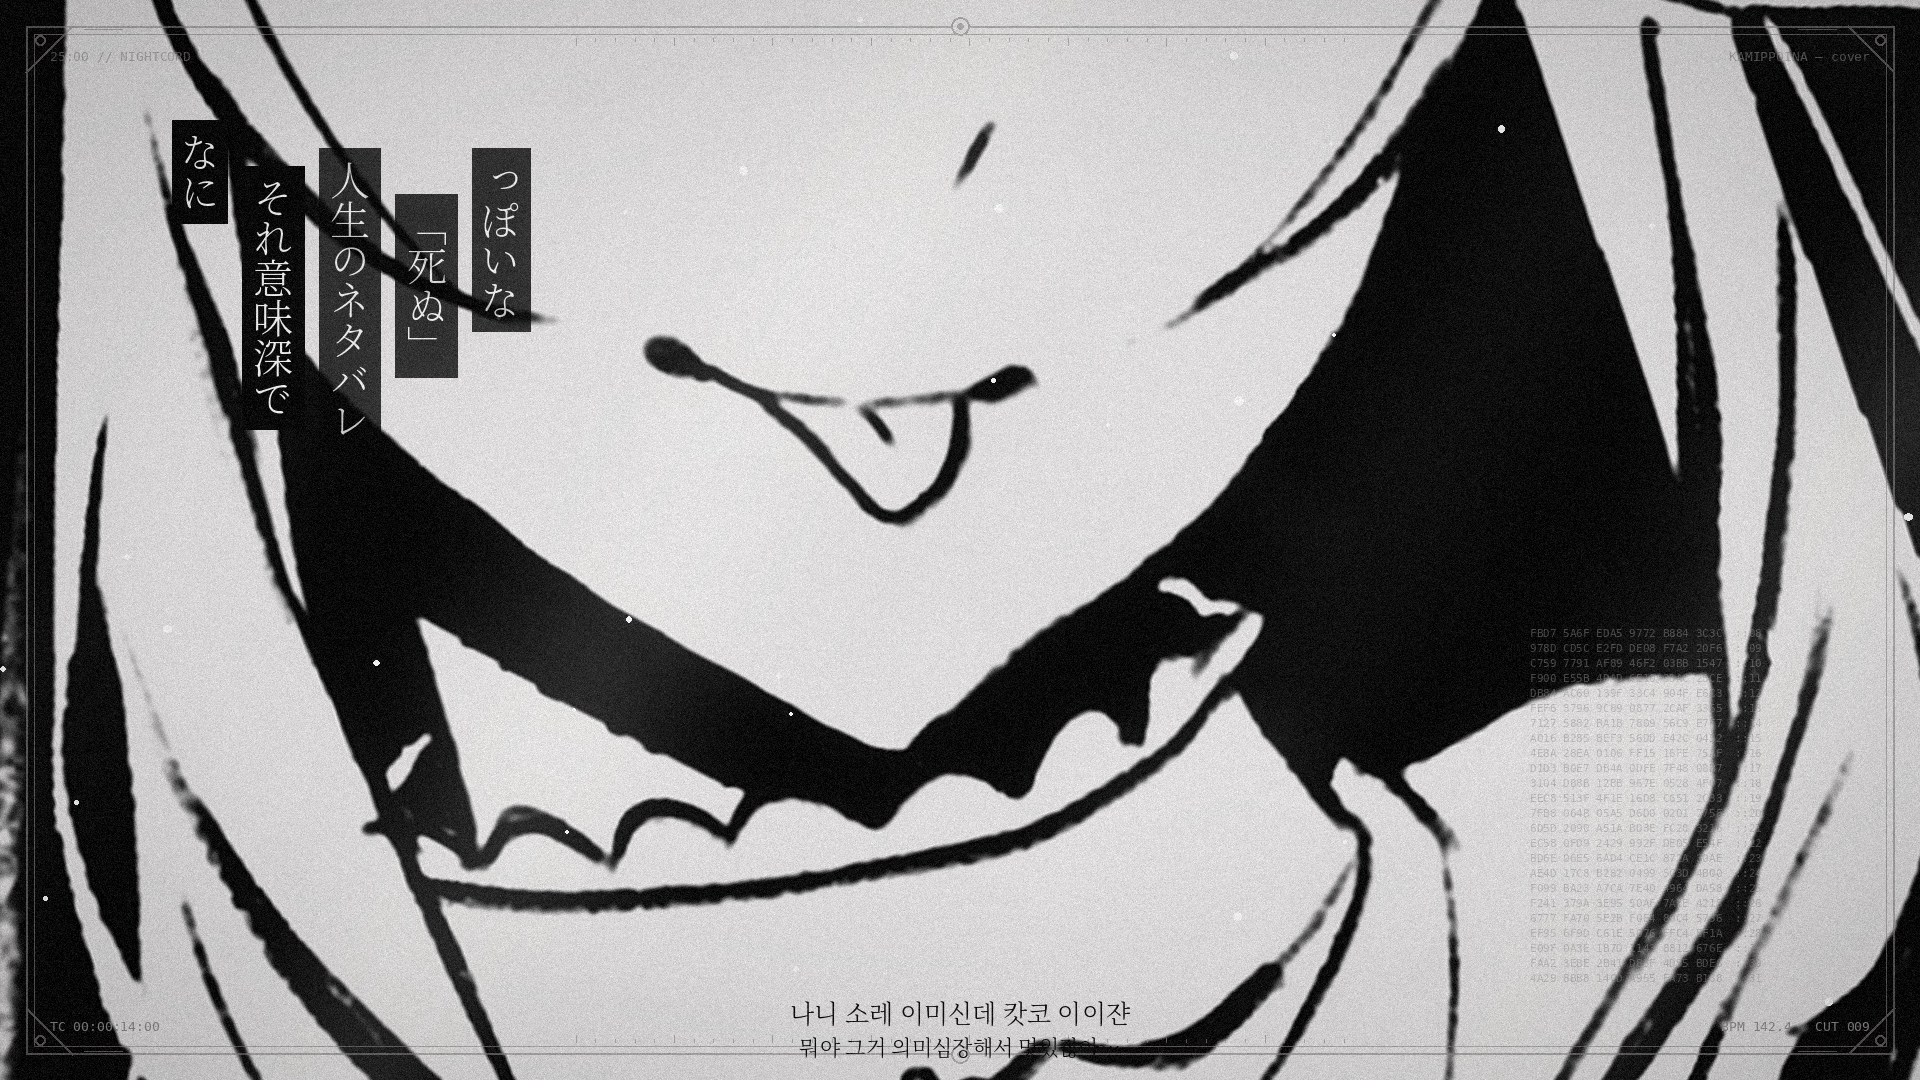
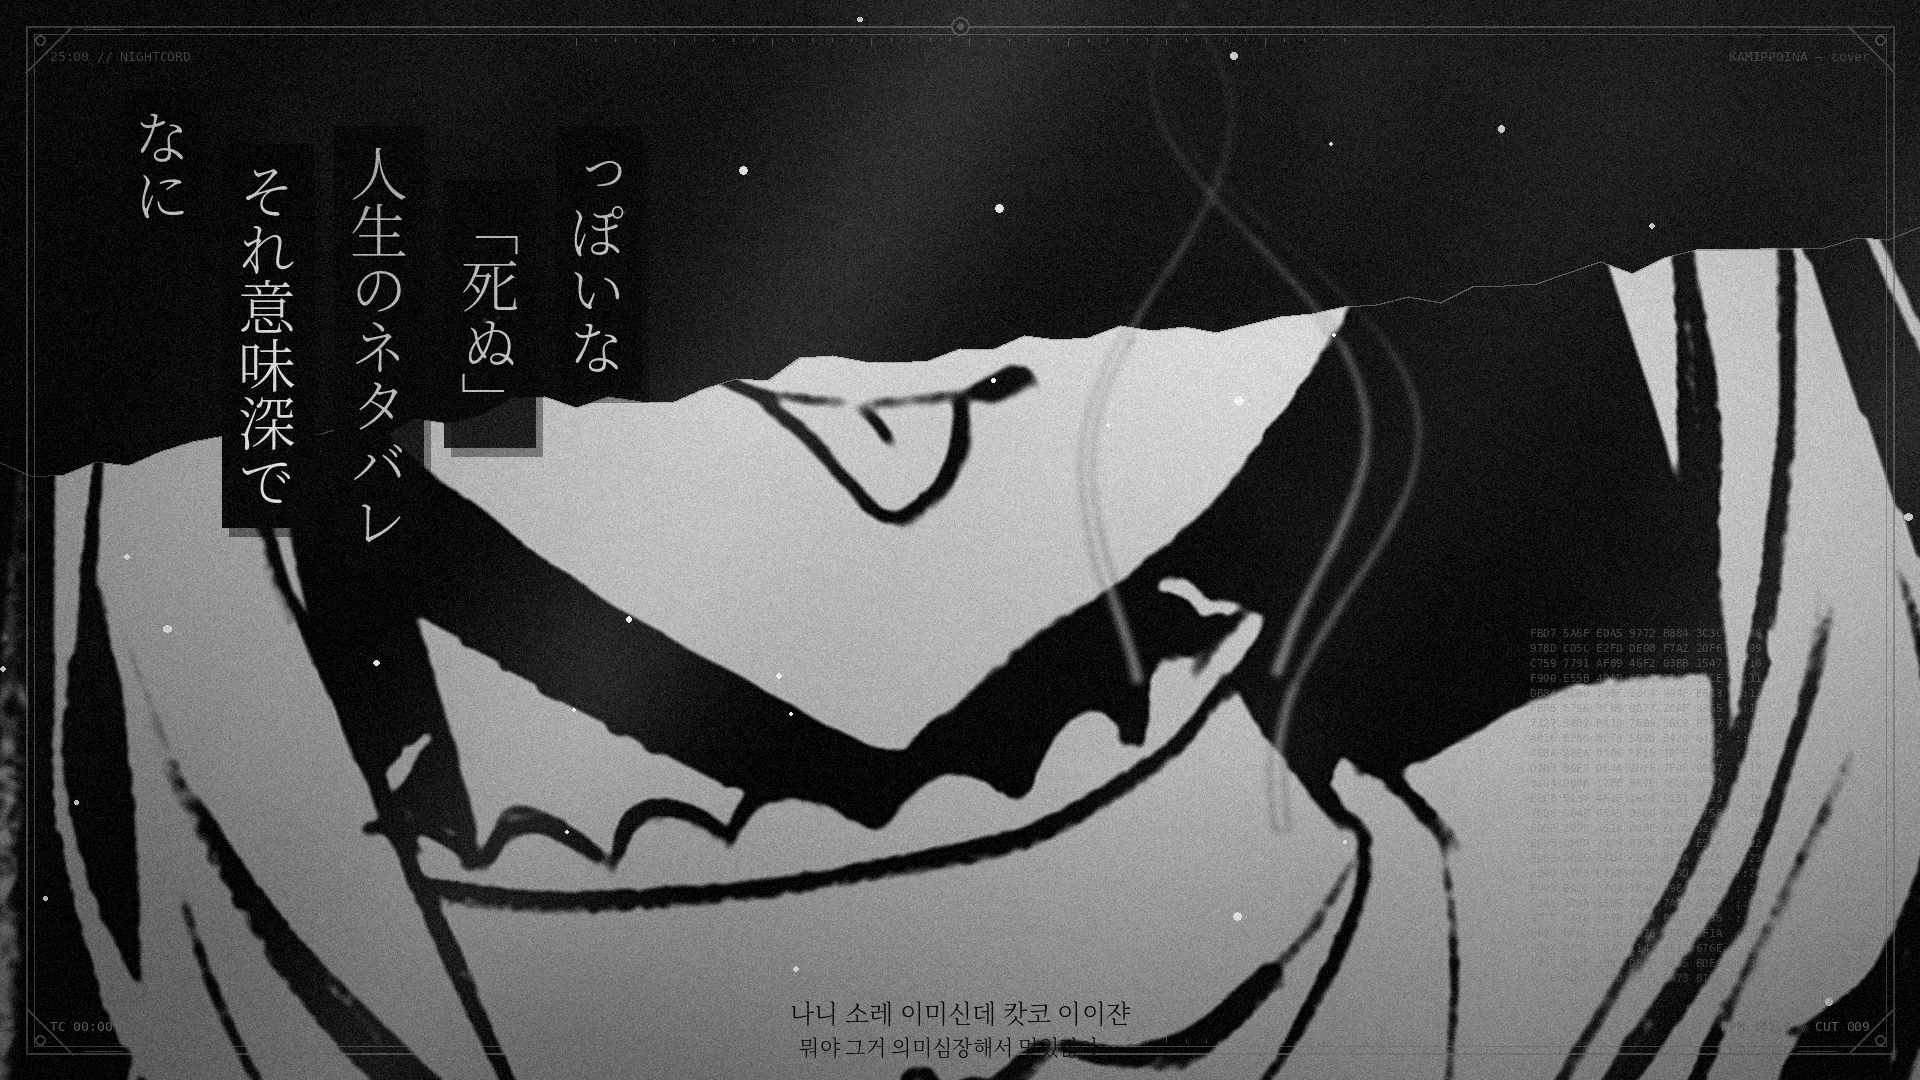
Step 2 rev: richer ref-B look for the stills
- torn black wedges, ghost after-image, directional shading, stronger vignette/grain
- bigger vertical lyric boxes with drop shadow; bigger red keyword with offset echo
- letterbox, slice bars, speed lines, smoke wisps on the matching scenes

Claude-Session: https://claude.ai/code/session_01QgDn7Ygr8MszVbrF3adkbG

diff --git a/tools/render.py b/tools/render.py
@@ -238,6 +238,20 @@ def vbox(text, size, fg=PAPER_L, bg=INK, pad=0.32, fontpath=F_L):
     return im
 
 
+_SH = {}
+
+
+def box_shadow(box):
+    if id(box) in _SH:
+        return _SH[id(box)]
+    _SH[id(box)] = _box_shadow(box); return _SH[id(box)]
+
+
+def _box_shadow(box):
+    a = box.getchannel("A").filter(ImageFilter.GaussianBlur(max(1, S(6))))
+    im = Image.new("RGBA", box.size, INK + (0,)); im.putalpha(a); return im
+
+
 @lru_cache(512)
 def htext(text, size, fill, fontpath=F_XL, stroke=0):
     f = font(fontpath, size)
@@ -293,7 +307,7 @@ def text_A(L, t, c, stack_size, side="right", mirror=False, max_lines=3):
         cols.append((k, ch[:n_vis]))
     size = S(stack_size)
     gap = int(size * 0.35)
-    x = Q.W - S(170) if side == "right" else S(170)
+    x = Q.W - S(120) if side == "right" else S(120)
     order = []
     for k, ch in cols:
         for j, piece in enumerate(ch):
@@ -306,18 +320,21 @@ def text_A(L, t, c, stack_size, side="right", mirror=False, max_lines=3):
     cols = kept
     # right-to-left columns (vertical writing): newest line at the outer edge
     xs = x
-    y0 = S(120)
+    y0 = S(90)
     for k, ch in cols:
         for j, piece in enumerate(ch):
             box = vbox(piece, size)
             age_alpha = [1.0, 0.82, 0.6][min(k, 2)]
-            yy = y0 + (j % 2) * S(46) + k * S(28)
+            yy = y0 + (j % 2) * S(54) + k * S(36)
             if side == "right":
                 xs -= box.size[0] + gap; px = xs + gap
             else:
                 px = xs; xs += box.size[0] + gap
+            sh = box_shadow(box)
             if mirror:  # mirror-symmetric twin on the other side
+                paste(L, sh, Q.W - px - box.size[0] + S(7), yy + S(9), age_alpha * 0.45)
                 paste(L, box, Q.W - px - box.size[0], yy, age_alpha * 0.9)
+            paste(L, sh, px + S(7), yy + S(9), age_alpha * 0.45)
             paste(L, box, px, yy, age_alpha)
 
 
@@ -481,7 +498,7 @@ def vignette():
     W, H = Q.W, Q.H
     y, x = np.mgrid[0:H, 0:W]
     d = np.sqrt(((x - W / 2) / (W / 2)) ** 2 + ((y - H / 2) / (H / 2)) ** 2)
-    v = 1 - 0.22 * np.clip(d - 0.55, 0, 1) ** 1.5
+    v = 1 - 0.42 * np.clip(d - 0.45, 0, 1) ** 1.3
     return Image.fromarray((v * 255).astype(np.uint8), "L")
 
 
@@ -718,25 +735,25 @@ def scene_text(L, img_layer_eyes, t, c, ci, bg):
             paste(L, im2, Q.W / 2 - im2.size[0] / 2, Q.H / 2 + S(30))
         return
     if sc in (2, 12):
-        text_A(L, t, c, 40 if sc == 2 else 46, side="right" if (ci % 2) else "left")
+        text_A(L, t, c, 58 if sc == 2 else 62, side="right" if (ci % 2) else "left")
     elif sc == 3:
         if li == 13:
             text_B(L, t, c, img_layer_eyes, tc, text="神っぽいな", size_h=0.5)
     elif sc == 4:
-        text_A(L, t, c, 30, side="right")
+        text_A(L, t, c, 44, side="right")
     elif sc == 5:
-        text_A(L, t, c, 30, side="right", mirror=True, max_lines=2)
+        text_A(L, t, c, 44, side="right", mirror=True, max_lines=2)
         text_B(L, t, c, img_layer_eyes, tc, size_h=0.36)
     elif sc in (6, 15):
         if li in (63,):
             text_B(L, t, c, img_layer_eyes, tc, text="神っぽいな", size_h=0.55, slide=0.25)
-        text_A(L, t, c, 52 if sc == 6 else 60, side="right", mirror=(sc == 15))
+        text_A(L, t, c, 70 if sc == 6 else 76, side="right", mirror=(sc == 15))
     elif sc == 7:
         if red:
             word = "憧れちゃう！" if li == 34 else "神っぽいな"
             text_C(L, t, c, word, img_layer_eyes, horizontal=(li == 34))
         else:
-            text_A(L, t, c, 66, side="right", max_lines=2)
+            text_A(L, t, c, 86, side="right", max_lines=2)
     elif sc == 9:
         if li == 42:
             text_B(L, t, c, [], PAPER_L, text="神っぽいな", size_h=0.5, slide=0.4)
@@ -746,9 +763,9 @@ def scene_text(L, img_layer_eyes, t, c, ci, bg):
         if red:
             text_C(L, t, c, "神っぽいな", img_layer_eyes, horizontal=False)
         else:
-            text_A(L, t, c, 48, side="left")
+            text_A(L, t, c, 64, side="left")
     elif sc == 13:
-        text_A(L, t, c, 30, side="right", max_lines=1)
+        text_A(L, t, c, 44, side="right", max_lines=1)
     elif sc == 14:
         if red:
             text_C(L, t, c, "憧" if li == 55 else "風", [], horizontal=True, center=True)
@@ -778,20 +795,126 @@ def band_text(L, t, c, bg):
 def text_C(L, t, c, word, eyes, horizontal=False, center=False):
     """Red keyword, half the screen, thin serif."""
     if horizontal:
-        size = int(Q.H * (0.62 if center else 0.30))
+        size = int(Q.H * (0.66 if center else 0.34))
         im = htext(word, size, RED + (245,), F_R if center else F_L)
         u = (t - c["start"]) / max(c["dur"], 0.3)
-        x = Q.W / 2 - im.size[0] / 2 + (0.5 - u) * Q.W * 0.08
+        x = Q.W / 2 - im.size[0] / 2 + (0.5 - u) * Q.W * 0.05
         y = Q.H / 2 - im.size[1] / 2
         if not center:
-            x, y = best_pos([(x, Q.H * f - im.size[1] / 2) for f in (0.74, 0.52, 0.26, 0.84, 0.16)], im.size[0], im.size[1], eyes)
-        paste(L, im, x, y)
+            x, y = best_pos([(x, Q.H * f - im.size[1] / 2) for f in (0.68, 0.50, 0.30, 0.76, 0.20)], im.size[0], im.size[1], eyes)
+        paste(L, im, x + S(26), y + S(14), 0.28)       # offset echo (ref B doubles its big type)
+        paste(L, im, x, y, 0.93)
     else:
-        size = int(Q.H * 0.26)
+        size = int(Q.H * 0.34)
         im = vtext(word, size, RED + (245,), F_L)
-        y = -size * 0.15 + (t - c["start"]) * S(40)
-        x, _ = best_pos([(Q.W * f, y) for f in (0.06, 0.82, 0.03, 0.88, 0.40)], im.size[0], im.size[1], eyes)
-        paste(L, im, x, y)
+        y = -size * 0.2 + (t - c["start"]) * S(60)
+        x, _ = best_pos([(Q.W * f, y) for f in (0.05, 0.80, 0.02, 0.86, 0.40)], im.size[0], im.size[1], eyes)
+        paste(L, im, x + S(22), y + S(30), 0.28)
+        paste(L, im, x, y, 0.93)
+
+
+CROP_SCENES = (2, 6, 7, 11, 12, 15)
+
+
+def ghost_echo(img, ci, t):
+    """Enlarged, blurred, faint double of the image layer behind it (ref B's after-image look)."""
+    W, H = Q.W, Q.H
+    k = 1.07 + 0.01 * math.sin(t * 1.3 + ci)
+    g = img.resize((int(W * k), int(H * k)), Image.BILINEAR)
+    g = g.crop(((g.size[0] - W) // 2 + S(18), (g.size[1] - H) // 2 - S(10), (g.size[0] - W) // 2 + S(18) + W, (g.size[1] - H) // 2 - S(10) + H))
+    g = g.filter(ImageFilter.GaussianBlur(max(1, S(5))))
+    g.putalpha(g.getchannel("A").point(lambda v: int(v * 0.30)))
+    return g
+
+
+def black_wedge(L, ci, t, c):
+    """Large black shape with a torn edge that cuts across the frame (ref B crops are half swallowed by black)."""
+    if ci % 4 == 3:
+        return
+    r = np.random.default_rng(ci * 31)
+    W, H = Q.W, Q.H
+    side = int(r.integers(0, 4))
+    cover = r.uniform(0.22, 0.38)
+    u = min(1, (t - c["start"]) * FPS / 6)
+    slide = (1 - u) ** 2 * 0.08
+    n = 60
+    tear = lambda k: r.uniform(-1, 1) * S(10) + math.sin(k * 0.7) * S(6)
+    if side in (0, 1):  # diagonal from left / right edge
+        x_top = W * (cover + 0.12 - slide); x_bot = W * (cover - 0.12 - slide)
+        edge = [(x_top + (x_bot - x_top) * k / n + tear(k), H * k / n) for k in range(n + 1)]
+        poly = [(0, 0)] + edge + [(0, H)]
+        if side == 1:
+            poly = [(W - x, y) for x, y in poly]
+    else:  # from top / bottom
+        y_l = H * (cover + 0.1 - slide); y_r = H * (cover - 0.12 - slide)
+        edge = [(W * k / n, y_l + (y_r - y_l) * k / n + tear(k)) for k in range(n + 1)]
+        poly = [(0, 0)] + edge + [(W, 0)]
+        if side == 3:
+            poly = [(x, H - y) for x, y in poly]
+    d = ImageDraw.Draw(L)
+    d.polygon(poly, fill=INK + (255,))
+    d.line(edge if side in (0, 2) else [(W - x, y) if side == 1 else (x, H - y) for x, y in edge], fill=GRAY_M + (150,), width=max(1, S(2)))
+
+
+def slice_bars(L, ci, t, color, cx=None, cy=None):
+    """Short horizontal glitch bars around the figure (ref B t024 / t081)."""
+    r = np.random.default_rng(ci * 17 + int(t * 6))
+    W, H = Q.W, Q.H
+    cx = W / 2 if cx is None else cx; cy = H / 2 if cy is None else cy
+    d = ImageDraw.Draw(L)
+    for k in range(int(r.integers(3, 7))):
+        w = r.uniform(0.04, 0.16) * W; h = r.uniform(0.008, 0.03) * H
+        x = cx + r.uniform(-0.22, 0.14) * W; y = cy + r.uniform(-0.38, 0.38) * H
+        d.rectangle((x, y, x + w, y + h), fill=color + (235,))
+
+
+def speed_lines(L, t, ci, color, alpha=0.55, cx=None, cy=None):
+    """Radial concentration lines (ref B t033)."""
+    r = np.random.default_rng(ci * 7 + int(t * 10))
+    W, H = Q.W, Q.H
+    cx = W / 2 if cx is None else cx; cy = H * 0.45 if cy is None else cy
+    d = ImageDraw.Draw(L)
+    for k in range(70):
+        a = r.uniform(0, 2 * math.pi)
+        r0 = r.uniform(0.22, 0.34) * H; r1 = r0 + r.uniform(0.15, 0.55) * H
+        d.line((cx + r0 * math.cos(a), cy + r0 * math.sin(a), cx + r1 * math.cos(a), cy + r1 * math.sin(a)),
+               fill=color + (int(255 * alpha * r.uniform(0.4, 1)),), width=max(1, S(r.uniform(1, 2.5))))
+
+
+def smoke_wisps(L, t, ci, color=PAPER_L):
+    """Curling ink-smoke strokes drifting upward (ref B cigarette smoke, here as an overlay)."""
+    r = np.random.default_rng(ci * 53)
+    W, H = Q.W, Q.H
+    tmp = Image.new("RGBA", (W, H), (0, 0, 0, 0)); d = ImageDraw.Draw(tmp)
+    for k in range(3):
+        x0 = r.uniform(0.15, 0.85) * W; y0 = r.uniform(0.6, 1.0) * H
+        ph = r.uniform(0, 6.28); amp = r.uniform(0.03, 0.08) * W
+        pts = []
+        for j in range(40):
+            v = j / 39
+            y = y0 - v * H * 0.75 - (t * S(40)) % S(120)
+            x = x0 + amp * math.sin(v * 7 + ph + t * 1.2) * (0.3 + v)
+            pts.append((x, y))
+        for j in range(len(pts) - 1):
+            wdt = max(1, int(S(12) * (1 - j / 40) + S(2)))
+            d.line(pts[j] + pts[j + 1], fill=color + (int(150 * (1 - j / 45)),), width=wdt)
+    tmp = tmp.filter(ImageFilter.GaussianBlur(max(1, S(4))))
+    L.alpha_composite(tmp)
+
+
+def shade(frame, ci, dark):
+    """Directional shading + soft highlight so flat line art gets depth (ref B gray mid-tones)."""
+    W, H = Q.W, Q.H
+    r = np.random.default_rng(ci * 3)
+    ang = r.uniform(0, 2 * math.pi)
+    y, x = np.mgrid[0:H:4, 0:W:4].astype(np.float32)
+    g = ((x / W - 0.5) * math.cos(ang) + (y / H - 0.5) * math.sin(ang)) + 0.5
+    m = 1 - 0.38 * np.clip(g, 0, 1) ** 1.4
+    mi = Image.fromarray((m * 255).astype(np.uint8), "L").resize((W, H), Image.BILINEAR)
+    rgb = ImageChops.multiply(frame.convert("RGB"), Image.merge("RGB", [mi] * 3))
+    hl = Image.fromarray(((1 - np.clip(g, 0, 1)) ** 3 * (40 if not dark else 26)).astype(np.uint8), "L").resize((W, H), Image.BILINEAR)
+    rgb = ImageChops.add(rgb, Image.merge("RGB", [hl] * 3))
+    out = rgb.convert("RGBA"); return out
 
 
 def motifs(L, t, c, ci, eyes, bg, layer):
@@ -880,10 +1003,26 @@ def render_frame(t):
             img = dir_blur(ImageChops.offset(img, off, 0), S(90 * (1 - abs(ph) / 3)))
         elif kind == "black" and 0 <= ph < 2:
             img = None
+    sc = c["scene"]
     if img is not None:
-        if c["scene"] in (8,) and "halftone" in c.get("overlays", []):
-            pass
+        if sc in CROP_SCENES + (4, 5, 16):
+            frame.alpha_composite(ghost_echo(img, ci, t))
         frame.alpha_composite(img)
+    rich = Image.new("RGBA", (W, H), (0, 0, 0, 0))
+    if img is not None and sc in CROP_SCENES and c.get("type") != "black_card":
+        black_wedge(rich, ci, t, c)
+    if sc in (3, 8, 9, 14) and img is not None:
+        slice_bars(rich, ci, t, INK if sum(bg) > 380 else PAPER_L)
+    if (sc in (3, 15) and active_line(t) in (13, 63)) or sc == 9 or (c.get("red") and sc == 14):
+        speed_lines(rich, t, ci, INK if sum(bg) > 380 else PAPER_L)
+    if img is not None and sc in (2, 4, 7, 12, 16):
+        smoke_wisps(rich, t, ci, PAPER_L if sc != 4 else GRAY_M)
+    frame.alpha_composite(rich)
+    if img is not None and sc not in (10, 13, 17, 18):
+        frame = shade(frame, ci, sum(bg) <= 380)
+    if sc in (3, 8, 14):  # cinema letterbox like ref B's band scenes
+        d = ImageDraw.Draw(frame); lb = int(H * 0.115)
+        d.rectangle((0, 0, W, lb), fill=INK + (255,)); d.rectangle((0, H - lb, W, H), fill=INK + (255,))
 
     # front motifs
     front = Image.new("RGBA", (W, H), (0, 0, 0, 0))
@@ -946,7 +1085,7 @@ def render_frame(t):
         hi = out.convert("L").point(lambda v: max(0, v - 200) * 4)
         bl = hi.filter(ImageFilter.GaussianBlur(S(18)))
         out = ImageChops.screen(out, Image.merge("RGB", [bl.point(lambda v: int(v * 0.18))] * 3))
-        n = np.random.default_rng(fr + 1).normal(0, 7.5, (H, W)).astype(np.float32)
+        n = np.random.default_rng(fr + 1).normal(0, 9.0, (H, W)).astype(np.float32)
         a = np.asarray(out).astype(np.float32) + n[..., None]
         out = Image.fromarray(np.clip(a, 0, 255).astype(np.uint8))
     return out

diff --git a/tools/build_cutlist.py b/tools/build_cutlist.py
@@ -76,8 +76,8 @@ S = [
     dict(id=7, start=67.3, end=77.6, type="red_starburst_slash", mode="fast", text="A→C(red)", color="mono→RED#1",
          ov=["hud_frame_ornate"], red=(74.1, 77.6),
          red_ov=["starburst_red", "checker_strip", "red_slash"],
-         pool=[("eye_r", -12, False), ("face", 8, False), ("eyes", 0, False), ("eye_l", 15, False),
-               ("point_hand", -10, False), ("mouth", 6, False)]),
+         pool=[("eye_r", -12, False), ("point_hand", -10, False), ("face", 6, False), ("eye_l", 15, False),
+               ("eyes", 0, False), ("mouth", 6, False)]),
     dict(id=8, start=77.6, end=87.9, type="repeat_band_silhouette", mode="fast", text="D", color="ink+gray",
          ov=["checker_floor", "halftone", "hud_frame_ornate"],
          pool=[("silhouette", 0, False), ("legs", 0, False), ("silhouette", 0, False), ("shoes", 0, False)]),
